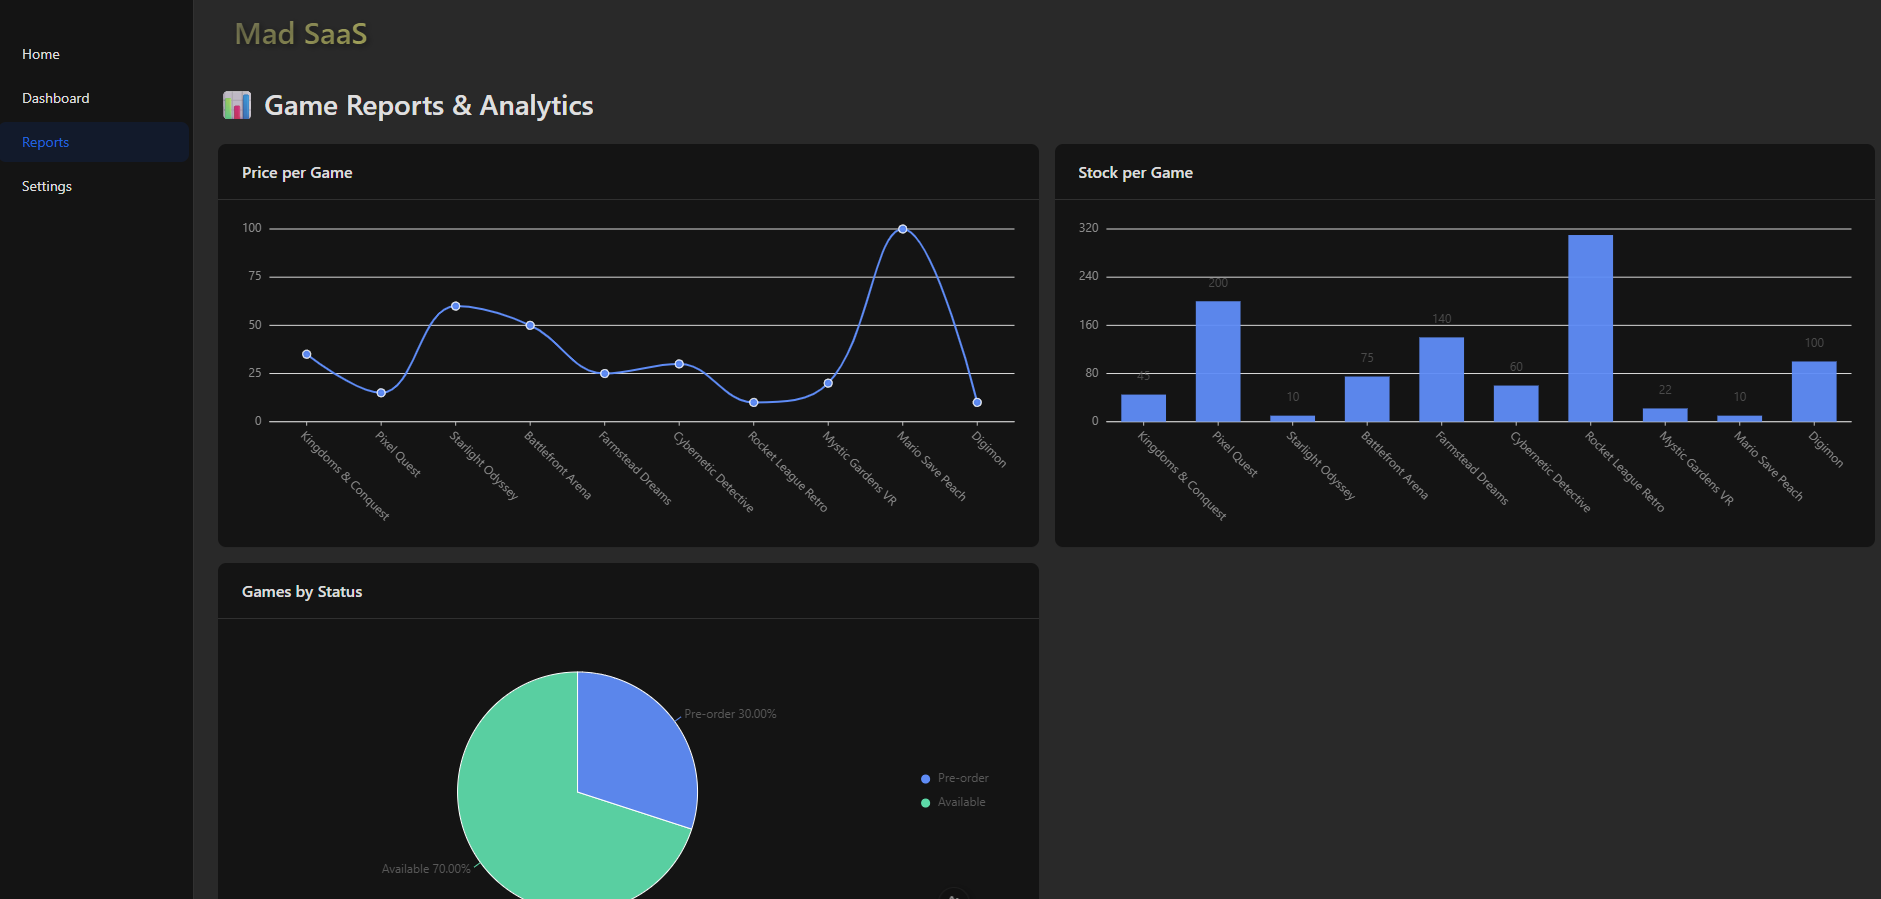
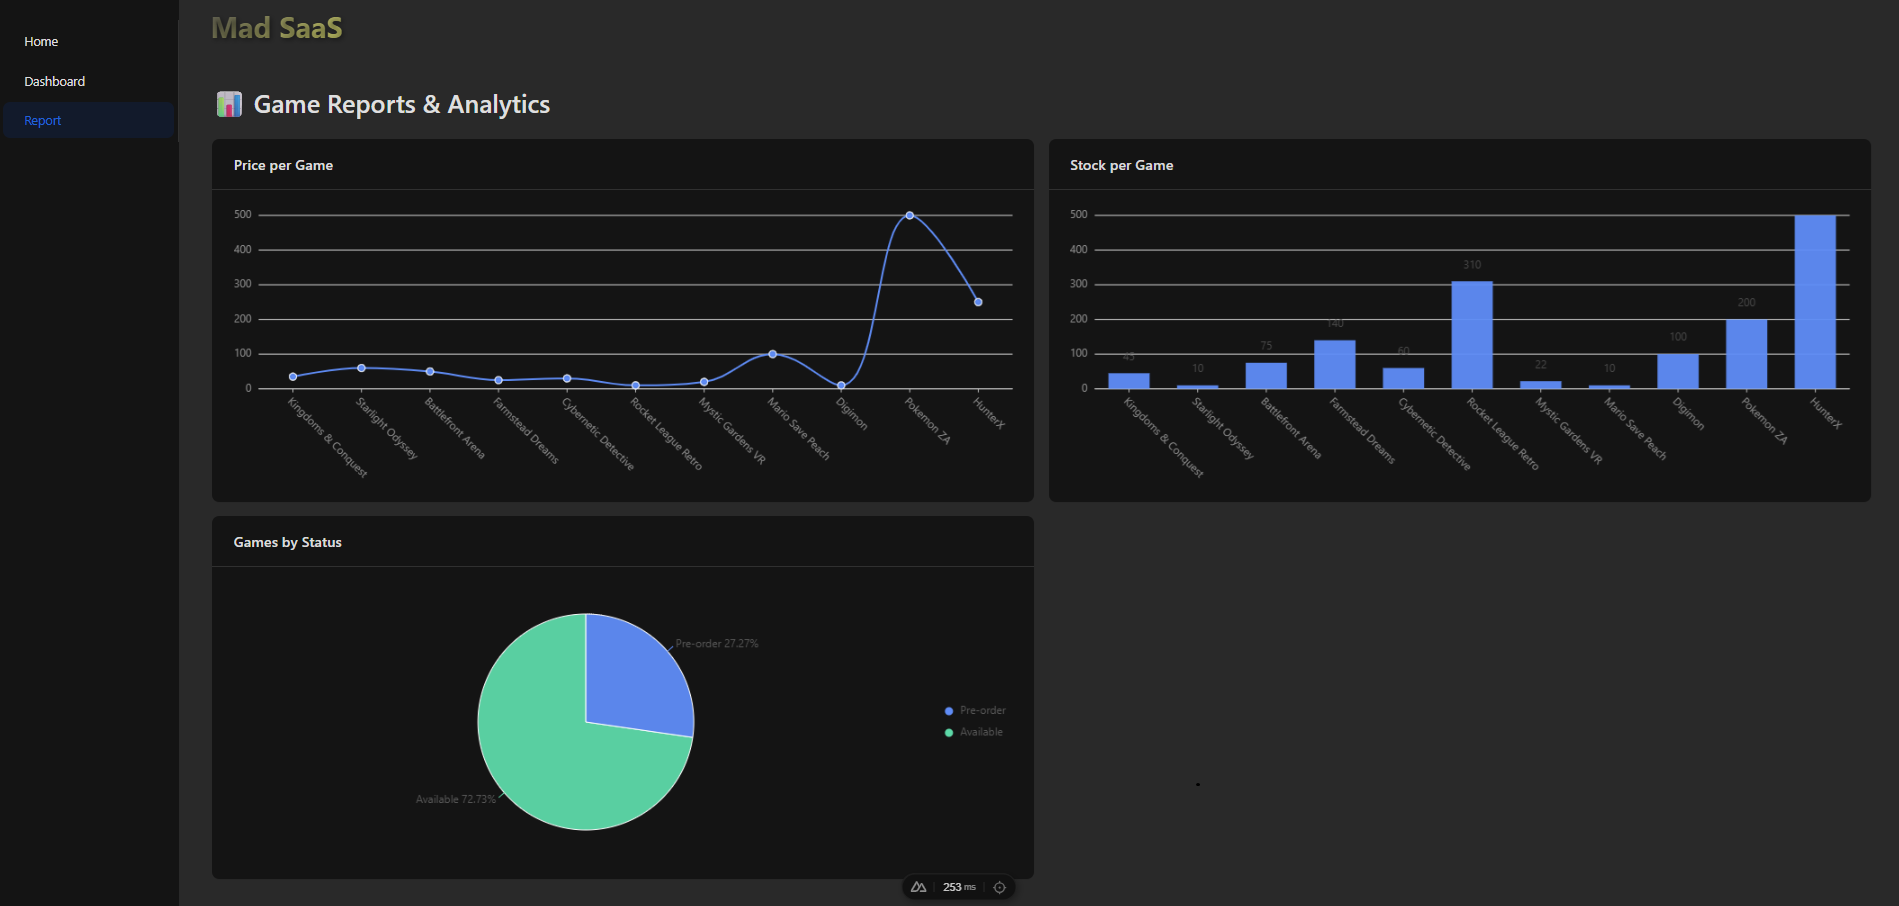
optimize the code in default layout and add a lib vue/core

diff --git a/app/layouts/default.vue b/app/layouts/default.vue
@@ -1,126 +1,58 @@
 <script setup lang="ts">
-import { ref, computed, onMounted, onBeforeUnmount } from 'vue'
-import { useRouter, useRoute } from 'vue-router'
-import { useAntd } from '~/composables/useAntd'
+import { useAntd } from "~/composables/useAntd";
+import { useDevice } from '~/composables/useDevice';
+import { menu } from "~/constants/menuOptions";
 
-const {
-  ALayout,
-  ALayoutHeader,
-  ALayoutContent,
-  AMenu,
-  AMenuItem,
-  ADrawer
-} = useAntd()
-
-const isMobile = ref(false)
+const { ALayout, AMenu, ADrawer, ALayoutHeader, ALayoutContent } = useAntd()
+const { isMobile } = useDevice()
 const showDrawer = ref(false)
+const router = useRouter();
+const route = useRoute();
 
-const router = useRouter()
-const route = useRoute()
+
 const selectedKeys = computed(() => [route.path])
 const go = (path: string) => {
-  router.push(path)
-  if (isMobile.value) showDrawer.value = false
+    router.push(path)
+    showDrawer.value = isMobile.value ? false : showDrawer.value;
 }
 
-const handleResize = () => {
-  isMobile.value = window.innerWidth <= 768
-}
-
-onMounted(() => {
-  handleResize()
-  window.addEventListener('resize', handleResize)
-})
-onBeforeUnmount(() => {
-  window.removeEventListener('resize', handleResize)
-})
 </script>
 
 <template>
-  <ALayout style="height: 100vh;">
-    <div v-if="!isMobile"
-      style="width: 200px; height: 100vh; background: transparent; position: fixed; overflow-y: auto;">
+    <ALayout style="height: 100vh;">
 
-      <AMenu mode="inline" :selected-keys="selectedKeys" style="height: 100%; padding-top: 30px;">
-        <AMenuItem key="/" @click="go('/')">Home</AMenuItem>
-        <AMenuItem key="/dashboard" @click="go('/dashboard')">Dashboard</AMenuItem>
-        <AMenuItem key="/reports" @click="go('/reports')">Reports</AMenuItem>
-        <AMenuItem key="/settings" @click="go('/settings')">Settings</AMenuItem>
-      </AMenu>
-
-    </div>
-
-
-
-    <ADrawer v-model:open="showDrawer" placement="left" :width="200" :closable="false">
-      <AMenu :selected-keys="selectedKeys"
-        style="width: 118%; height: 100%;  background: transparent; padding-top: 20px;">
-        <AMenuItem key="/" @click="go('/')">Home</AMenuItem>
-        <AMenuItem key="/dashboard" @click="go('/dashboard')">Dashboard</AMenuItem>
-        <AMenuItem key="/reports" @click="go('/reports')">Reports</AMenuItem>
-        <AMenuItem key="/settings" @click="go('/settings')">Settings</AMenuItem>
-      </AMenu>
-    </ADrawer>
-
-    <ALayout :style="{ marginLeft: isMobile ? '0' : '200px', height: '100vh' }">
-      <ALayoutHeader
-        style="background: #292929; padding: 0 16px; display: flex; align-items: center; justify-content: space-between; height: 64px;">
-        <button v-if="isMobile" @click="showDrawer = !showDrawer" class="hamburger-btn">
-          <span class="bar"></span>
-          <span class="bar"></span>
-          <span class="bar"></span>
-        </button>
-        <div class="fancy-title">
-          <h2 style="margin: 0; color: aliceblue; font-size: 30px; padding: 24px;">Mad SaaS</h2>
+        <div v-if="!isMobile" class="sidebar">
+            <AMenu mode="inline" :items="menu" :selected-keys="selectedKeys"
+                @select="index => go(index.key as string)" />
         </div>
-      </ALayoutHeader>
 
-      <ALayoutContent style="background: #292929; height: calc(100vh - 64px); overflow-y: auto;">
-        <slot />
-      </ALayoutContent>
+
+        <ADrawer ::body-style="{ background: '#141414', padding: '20px 0 0 0' }""
+            v-model:open="showDrawer" placement="left" :width="200" :closable="false">
+            <AMenu class="" mode="inline" :items="menu" :selected-keys="selectedKeys"
+                @select="index => go(index.key as string)" style="background: transparent; height: 100%;" />
+            <template #footer></template>
+        </ADrawer>
+
+
+
+
+        <ALayout :style="{ marginLeft: isMobile ? 0 : '200px', height: '100vh' }">
+
+            <ALayoutHeader class="header">
+                <button v-if="isMobile" @click="showDrawer = !showDrawer" class="hamburger-btn">
+                    <span class="bar"></span><span class="bar"></span><span class="bar"></span>
+                </button>
+                <h2 class="title">Mad SaaS</h2>
+            </ALayoutHeader>
+
+            <ALayoutContent class="content">
+                <slot />
+            </ALayoutContent>
+        </ALayout>
     </ALayout>
-  </ALayout>
+
+
 </template>
 
-
-<style scoped>
-.fancy-title {
-  margin: 0;
-  font-size: 32px;
-  font-weight: bold;
-  background: linear-gradient(150deg, #4e4d4d, #e2e066);
-  background-clip: text;
-  -webkit-text-fill-color: transparent;
-  text-shadow: 2px 2px 6px rgba(0, 0, 0, 0.4);
-  font-family: 'Segoe UI', Tahoma, Geneva, Verdana, sans-serif;
-  transition: transform 0.3s ease;
-  cursor: default;
-}
-
-.fancy-title:hover {
-  transform: scale(1.1);
-}
-
-.hamburger-btn {
-  background: none;
-  border: none;
-  cursor: pointer;
-  display: flex;
-  flex-direction: column;
-  justify-content: space-around;
-  width: 28px;
-  height: 25px;
-  padding: 0;
-  margin-left: 15px;
-}
-
-.hamburger-btn .bar {
-  width: 100%;
-  height: 2.8px;
-  padding-left: 30px;
-  padding: 1px;
-  background: linear-gradient(150deg, #4e4d4d, #e2e066);
-  border-radius: 2px;
-  transition: all 0.3s ease;
-}
-</style>
+<style scoped src="~/styles/layout.css" />

diff --git a/app/pages/index.vue b/app/pages/index.vue
@@ -4,29 +4,46 @@ definePageMeta({
 })
 </script>
 
+
+
 <template>
-  <div class="fancy-title" style="display: flex; justify-content: center; align-items: center; height: 80vh;">
-    <h1>Welcome To Our Game Store<br />
-      <p>Have New Explore</p>
+  <div class="fancy-title-wrapper">
+    <h1 class="fancy-title">
+      Welcome To Our Game Store
+      <span class="subtitle">Have New Explore</span>
     </h1>
   </div>
 </template>
 
 <style scoped>
+.fancy-title-wrapper {
+  display: flex;
+  justify-content: center;
+  align-items: center;
+  height: 80vh;
+  text-align: center;
+  padding: 0 1rem;
+}
+
 .fancy-title {
   margin: 0;
-  font-size: 15px;
+  font-size: clamp(2rem, 5vw, 4rem);
   font-weight: bold;
+  font-family: 'Segoe UI', Tahoma, Geneva, Verdana, sans-serif;
   background: linear-gradient(150deg, #4e4d4d, #e2e066);
   background-clip: text;
+  -webkit-background-clip: text;
   -webkit-text-fill-color: transparent;
   text-shadow: 2px 2px 6px rgba(0, 0, 0, 0.4);
-  font-family: 'Segoe UI', Tahoma, Geneva, Verdana, sans-serif;
   transition: transform 0.3s ease;
   cursor: default;
 }
 
-.fancy-title:hover {
-  transform: scale(1.1);
+
+.subtitle {
+  display: block;
+  font-size: clamp(1rem, 2.5vw, 1.5rem);
+  font-weight: normal;
+  margin-top: 0.3em;
 }
 </style>

diff --git a/app/styles/layout.css b/app/styles/layout.css
@@ -1,0 +1,56 @@
+.sidebar {
+  padding-top: 1.5rem;
+  width: 200px;
+  height: 150vh;
+  position: fixed;
+  background-color: #141414;
+}
+
+.header {
+  background: #292929;
+  display: flex;
+  align-items: center;
+  justify-content: space-between;
+  padding: 0 35px;
+  height: 64px;
+}
+
+.content {
+  background: #292929;
+  height: calc(100vh - 54px);
+  overflow-y: auto;
+  padding: 0.8rem;
+}
+
+.title {
+  margin: 0;
+  font-size: clamp(2rem, 1vw, 1rem);
+  font-weight: bold;
+  background: linear-gradient(150deg, #4e4d4d, #e2e066);
+  background-clip: text;
+  -webkit-background-clip: text;
+  -webkit-text-fill-color: transparent;
+  text-shadow: 2px 2px 6px rgba(0, 0, 0, 0.4);
+  transition: transform 0.3s ease;
+  cursor: default;
+}
+
+.hamburger-btn {
+  background: none;
+  border: none;
+  display: flex;
+  flex-direction: column;
+  width: 40px;
+  cursor: pointer;
+}
+
+.hamburger-btn .bar {
+  height: 3px;
+  background: linear-gradient(150deg, #4e4d4d, #e2e066);
+  margin: 3px 0;
+}
+
+.drawer-sidebar {
+  background-color: #141414;
+  background: #141414;
+}

diff --git a/app/pages/dashboard.vue b/app/pages/dashboard.vue
@@ -62,6 +62,8 @@ const handleCancel = () => {
 }
 </script>
 
+
+
 <template>
   <div>
     <div class="button-container">
@@ -70,7 +72,7 @@ const handleCancel = () => {
       </AButton>
     </div>
     <GameTable :games="games" @edit="openEdit" @delete="deleteGame" />
-    <AModal v-model:visible="showModel" title="Game Form" @ok="saveGame" @cancel="handleCancel">
+    <AModal v-model:open="showModel" title="Game Form" @ok="saveGame" @cancel="handleCancel">
       <AForm layout="vertical">
         <Field name="title" v-slot="{ value, handleChange, handleBlur, errorMessage }">
           <AFormItem label="Title" :help="errorMessage" :validate-status="errorMessage ? 'error' : ''">

diff --git a/app/components/menulist.vue b/app/components/menulist.vue
@@ -1,0 +1,19 @@
+<script setup lang="ts">
+const { AMenu } = useAntd()
+const props = defineProps < {
+    items: { key: string, label: string }[],
+    selectedKey: string[]
+} > ()
+
+const emit = defineEmits(['select'])
+</script>
+
+
+
+<template>
+    <AMenu mode="inline" :selected-keys="props.selectedKey" style="padding-top: 20px;">
+        <AMenuItem v-for="item in props.items" :key="item.key" @click="emit('select', item.key)">
+            {{ item.label }}
+        </AMenuItem>
+    </AMenu>
+</template>

diff --git a/app/composables/useDevice.ts b/app/composables/useDevice.ts
@@ -1,0 +1,15 @@
+import { useBreakpoints } from "@vueuse/core";
+
+export const useDevice = () => {
+  const breakpoints = useBreakpoints({
+    mobile: 0,
+    tablet: 768,
+    desktop: 1024,
+  });
+
+  const isMobile = breakpoints.smaller("tablet");
+  const isTablet = breakpoints.between("tablet", "desktop");
+  const isDesktop = breakpoints.greater("desktop");
+
+  return { isMobile, isDesktop, isTablet };
+};

diff --git a/app/constants/menuOptions.ts b/app/constants/menuOptions.ts
@@ -1,0 +1,5 @@
+export const menu = [
+    { key:'/', label:'Home' },
+    { key:'/dashboard', label:'Dashboard' },
+    { key:'/reports', label:'Report' },
+]
